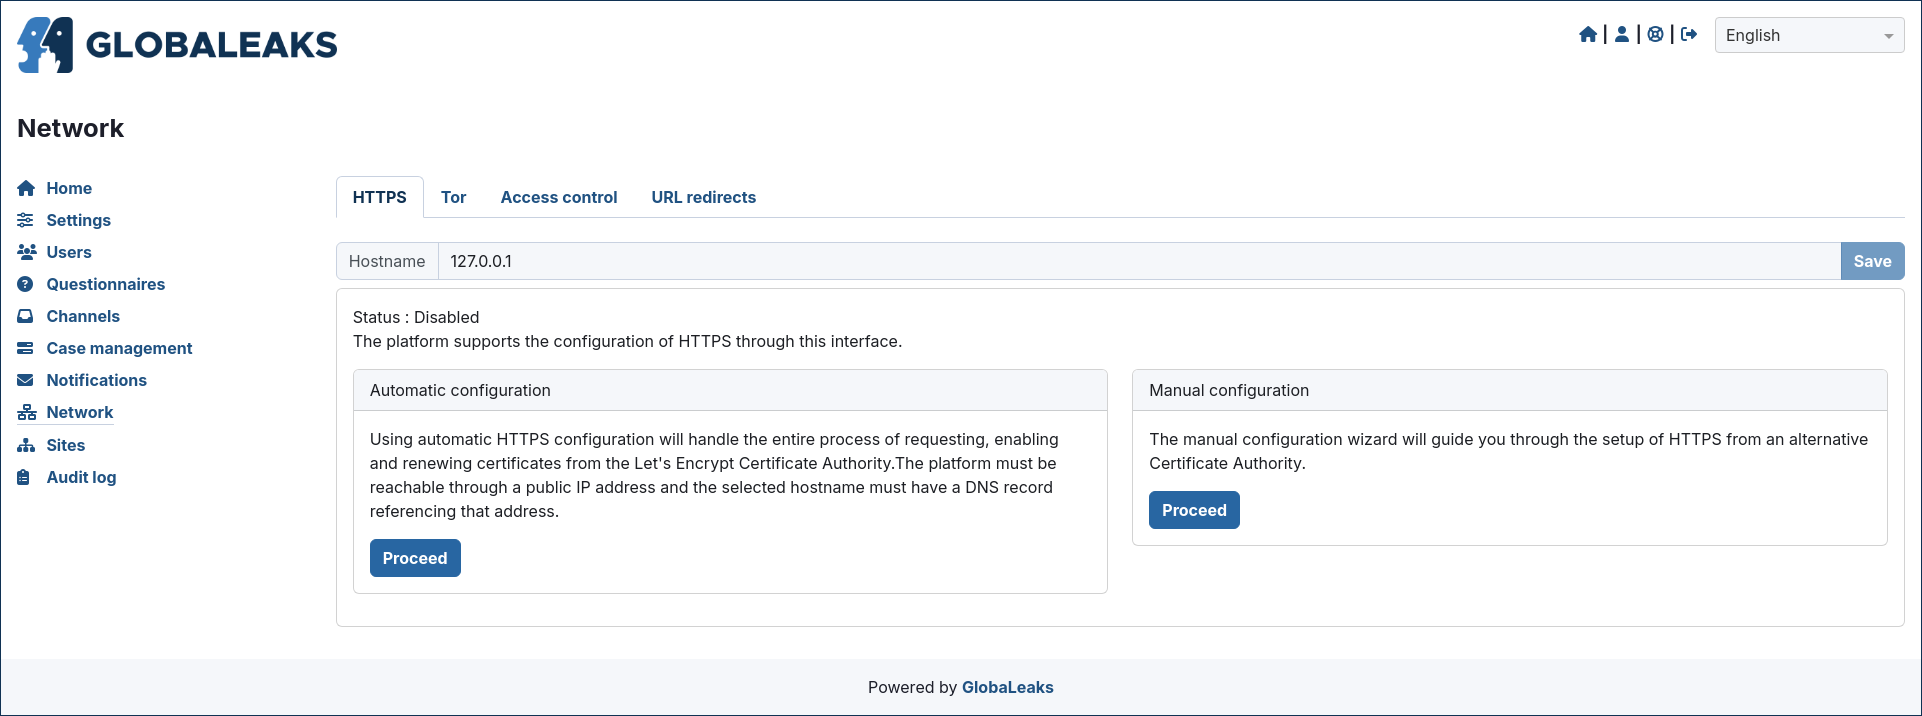
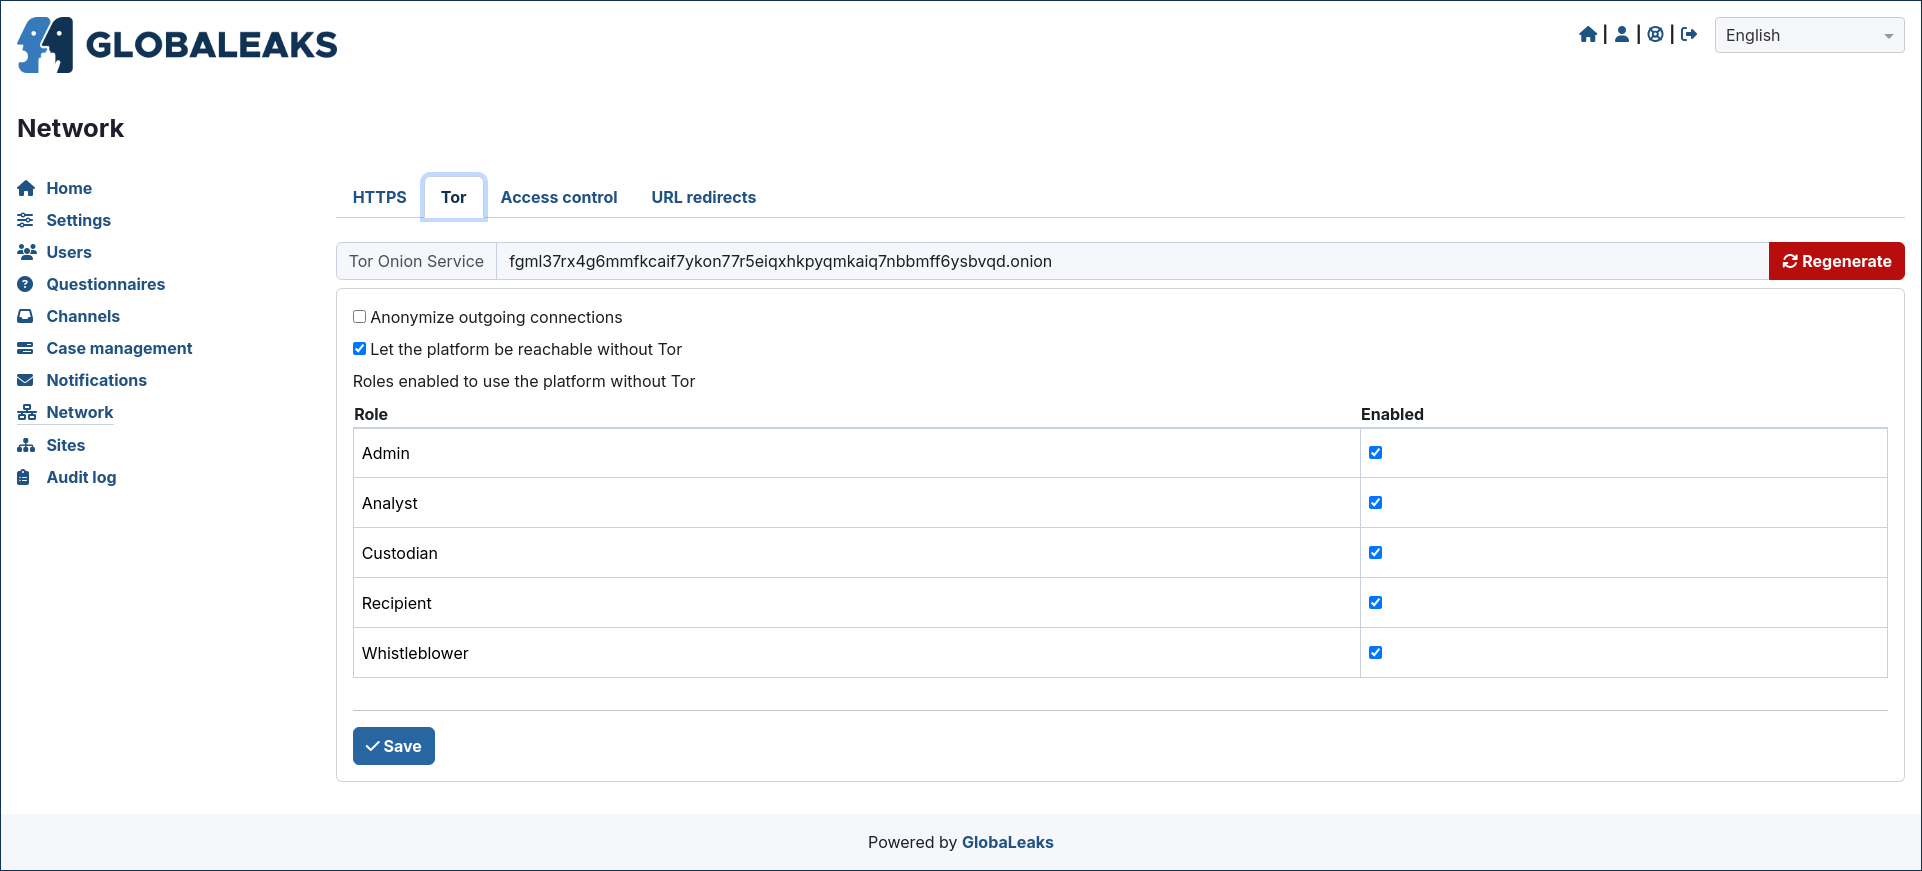
[doc] Swap https.png and tor.png images

diff --git a/client/cypress/e2e/20-test-acquire-documentation-screenshots.cy.ts b/client/cypress/e2e/20-test-acquire-documentation-screenshots.cy.ts
@@ -55,13 +55,10 @@ describe("acquire screenshots necessary for user documentation - Admin Section",
     cy.takeScreenshot("admin/notification_templates");
 
     cy.get("#admin_network").first().click();
-    cy.takeScreenshot("admin/tor");
-
-    cy.get('[data-cy="https"]').first().click();
     cy.takeScreenshot("admin/https");
 
     cy.get('[data-cy="tor"]').first().click();
-    cy.takeScreenshot("admin/https");
+    cy.takeScreenshot("admin/tor");
 
     cy.get('[data-cy="access_control"]').first().click();
     cy.takeScreenshot("admin/access_control");
